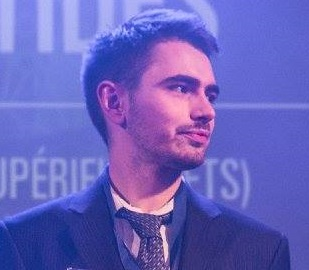
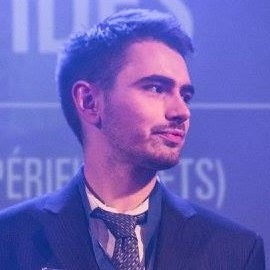
Fix the picture and the rounded corners

diff --git a/css/style.css b/css/style.css
@@ -23,8 +23,13 @@ a.btn-social {
 	text-decoration: none;
 }
 
+
 img.img-responsive {
 	border-radius: 10px;
+}
+
+img.img-circle {
+	border-radius: 50%;
 }
 
 a:hover {
